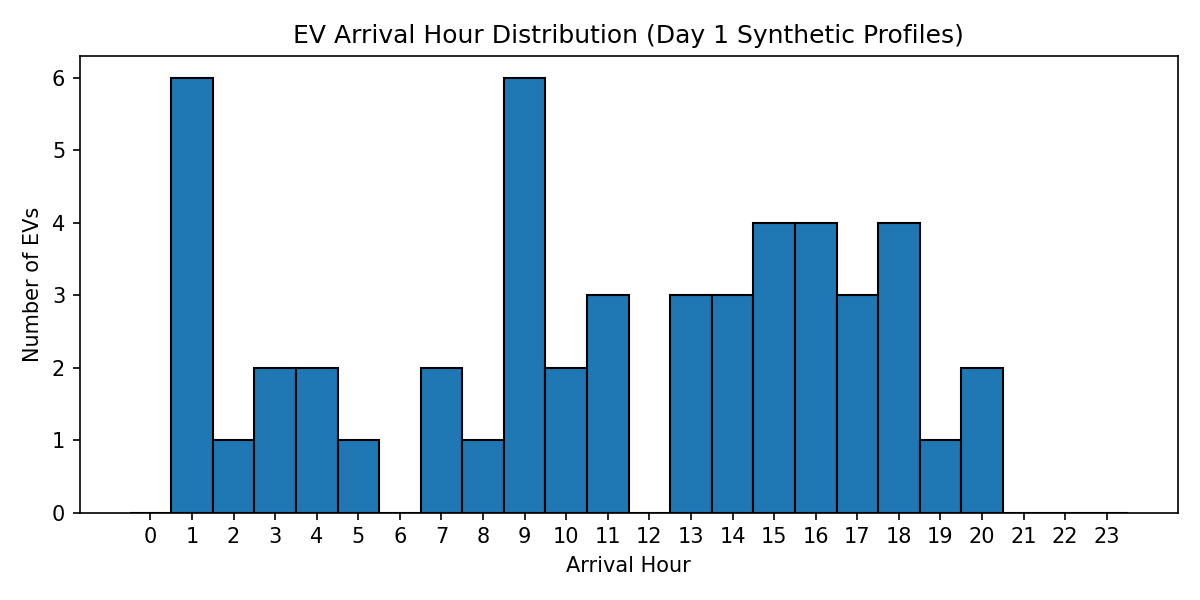
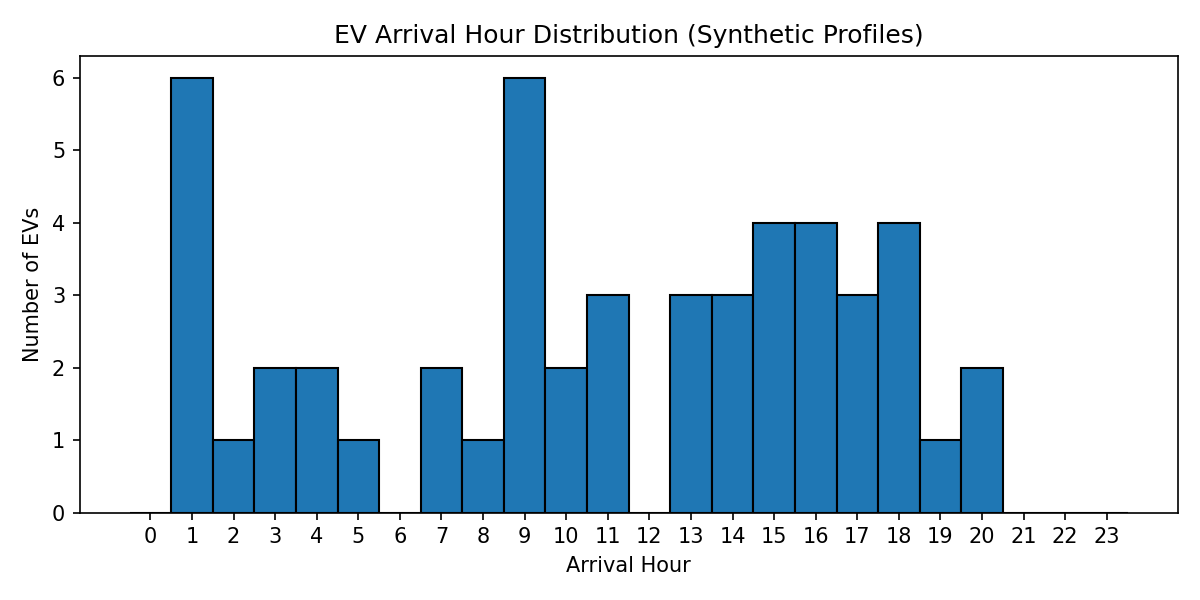
Day 2: simulate uncontrolled EV charging and fleet load

Changed region(s): [[0.2467, 0.03, 0.8017, 0.09]]

diff --git a/run.py b/run.py
@@ -2,10 +2,12 @@ from pathlib import Path
 
 import matplotlib.pyplot as plt
 
+from src.charging_simulator import simulate_uncontrolled_charging
+from src.metrics import calculate_fleet_metrics
 from src.profile_generator import generate_ev_profiles, validate_profiles
 
 
-def save_day1_plots(df, figures_dir: Path) -> None:
+def save_day1_profile_plots(df, figures_dir: Path) -> None:
     figures_dir.mkdir(parents=True, exist_ok=True)
 
     # Arrival hour histogram
@@ -14,7 +16,7 @@ def save_day1_plots(df, figures_dir: Path) -> None:
     plt.xticks(range(0, 24))
     plt.xlabel("Arrival Hour")
     plt.ylabel("Number of EVs")
-    plt.title("EV Arrival Hour Distribution (Day 1 Synthetic Profiles)")
+    plt.title("EV Arrival Hour Distribution (Synthetic Profiles)")
     plt.tight_layout()
     plt.savefig(figures_dir / "arrival_hour_histogram.png", dpi=150)
     plt.close()
@@ -24,9 +26,22 @@ def save_day1_plots(df, figures_dir: Path) -> None:
     plt.hist(df["energy_needed_kwh"], bins=10, edgecolor="black")
     plt.xlabel("Energy Needed (kWh)")
     plt.ylabel("Number of EVs")
-    plt.title("Energy Needed Distribution (Day 1 Synthetic Profiles)")
+    plt.title("Energy Needed Distribution (Synthetic Profiles)")
     plt.tight_layout()
     plt.savefig(figures_dir / "energy_needed_histogram.png", dpi=150)
+    plt.close()
+
+
+def save_uncontrolled_load_plot(fleet_load_df, figures_dir: Path) -> None:
+    plt.figure(figsize=(9, 4.5))
+    plt.plot(fleet_load_df["hour"], fleet_load_df["fleet_load_kw"], marker="o")
+    plt.xticks(range(0, 24))
+    plt.xlabel("Hour of Day")
+    plt.ylabel("Fleet Charging Load (kW)")
+    plt.title("Uncontrolled EV Charging - Aggregate Fleet Load")
+    plt.grid(True, alpha=0.3)
+    plt.tight_layout()
+    plt.savefig(figures_dir / "aggregate_load_uncontrolled.png", dpi=150)
     plt.close()
 
 
@@ -34,23 +49,54 @@ def main() -> None:
     output_dir = Path("results")
     figures_dir = output_dir / "figures"
     output_dir.mkdir(parents=True, exist_ok=True)
+    figures_dir.mkdir(parents=True, exist_ok=True)
 
-    df = generate_ev_profiles(n_evs=50, seed=42)
-    validate_profiles(df)
+    # Day 1 profiles
+    profiles_df = generate_ev_profiles(n_evs=50, seed=42)
+    validate_profiles(profiles_df)
 
-    output_path = output_dir / "ev_profiles_day1.csv"
-    df.to_csv(output_path, index=False)
+    profiles_path = output_dir / "ev_profiles_day1.csv"
+    profiles_df.to_csv(profiles_path, index=False)
 
-    save_day1_plots(df, figures_dir)
+    # Save Day 1 distributions
+    save_day1_profile_plots(profiles_df, figures_dir)
 
-    print("Generated EV profiles successfully.")
-    print(f"Saved CSV to: {output_path}")
-    print(f"Saved figures to: {figures_dir}")
+    # Day 2 simulation: uncontrolled charging
+    fleet_load_df, ev_results_df = simulate_uncontrolled_charging(
+        profiles_df=profiles_df,
+        charging_power_kw=7.0,
+    )
+
+    # Save outputs
+    fleet_load_path = output_dir / "fleet_load_uncontrolled.csv"
+    ev_results_path = output_dir / "ev_results_uncontrolled.csv"
+    fleet_load_df.to_csv(fleet_load_path, index=False)
+    ev_results_df.to_csv(ev_results_path, index=False)
+
+    # Save plot
+    save_uncontrolled_load_plot(fleet_load_df, figures_dir)
+
+    # Metrics
+    metrics = calculate_fleet_metrics(fleet_load_df, ev_results_df)
+
+    print("=== Day 2: Uncontrolled Charging Simulation ===")
+    print(f"Profiles saved: {profiles_path}")
+    print(f"Fleet load saved: {fleet_load_path}")
+    print(f"EV results saved: {ev_results_path}")
+    print(f"Figures saved in: {figures_dir}")
     print()
-    print(df.head(10).to_string(index=False))
+
+    print("Fleet load (first 10 rows):")
+    print(fleet_load_df.head(10).to_string(index=False))
     print()
-    print("Quick summary:")
-    print(df.describe())
+
+    print("Per-EV results (first 10 rows):")
+    print(ev_results_df.head(10).to_string(index=False))
+    print()
+
+    print("Metrics:")
+    for k, v in metrics.items():
+        print(f" - {k}: {v}")
 
 
 if __name__ == "__main__":

diff --git a/src/charging_simulator.py b/src/charging_simulator.py
@@ -1,0 +1,76 @@
+from __future__ import annotations
+
+from typing import Tuple
+
+import numpy as np
+import pandas as pd
+
+
+def simulate_uncontrolled_charging(
+    profiles_df: pd.DataFrame,
+    charging_power_kw: float = 7.0,
+) -> Tuple[pd.DataFrame, pd.DataFrame]:
+    """
+    Simulate uncontrolled charging for a fleet over a single day (24 hourly slots).
+
+    Assumptions:
+    - Charging starts immediately at arrival_hour
+    - Constant charging power (kW)
+    - Hourly resolution
+    - Charging stops when energy_needed_kwh is met or at departure_hour
+    - departure_hour is treated as the last available hour boundary (not inclusive)
+      Example: arrival=10, departure=13 -> charging can occur in hours 10,11,12
+    Returns:
+    - fleet_load_df: hourly aggregate fleet load
+    - ev_results_df: per-EV charging results
+    """
+    n_hours = 24
+    hourly_load_kw = np.zeros(n_hours, dtype=float)
+
+    ev_results = []
+
+    for _, row in profiles_df.iterrows():
+        ev_id = int(row["ev_id"])
+        arrival = int(row["arrival_hour"])
+        departure = int(row["departure_hour"])
+        energy_needed = float(row["energy_needed_kwh"])
+
+        remaining_energy = energy_needed
+        energy_delivered = 0.0
+
+        # For hourly resolution: each hour can deliver up to charging_power_kw * 1h = charging_power_kw kWh
+        for hour in range(arrival, departure):
+            if remaining_energy <= 1e-9:
+                break
+
+            energy_this_hour = min(charging_power_kw, remaining_energy)  # kWh in 1 hour
+            power_this_hour = energy_this_hour  # because 1-hour timestep, kWh == average kW over that hour
+
+            hourly_load_kw[hour] += power_this_hour
+            remaining_energy -= energy_this_hour
+            energy_delivered += energy_this_hour
+
+        completed = energy_delivered >= energy_needed - 1e-6
+
+        ev_results.append(
+            {
+                "ev_id": ev_id,
+                "arrival_hour": arrival,
+                "departure_hour": departure,
+                "energy_needed_kwh": round(energy_needed, 3),
+                "energy_delivered_kwh": round(energy_delivered, 3),
+                "energy_shortfall_kwh": round(max(0.0, energy_needed - energy_delivered), 3),
+                "completed": completed,
+            }
+        )
+
+    fleet_load_df = pd.DataFrame(
+        {
+            "hour": np.arange(n_hours),
+            "fleet_load_kw": hourly_load_kw.round(3),
+        }
+    )
+
+    ev_results_df = pd.DataFrame(ev_results)
+
+    return fleet_load_df, ev_results_df

diff --git a/src/metrics.py b/src/metrics.py
@@ -1,0 +1,22 @@
+import pandas as pd
+
+
+def calculate_fleet_metrics(
+    fleet_load_df: pd.DataFrame,
+    ev_results_df: pd.DataFrame,
+) -> dict:
+    """
+    Calculate core metrics for the charging simulation.
+    """
+    peak_load_kw = float(fleet_load_df["fleet_load_kw"].max())
+    total_energy_delivered_kwh = float(ev_results_df["energy_delivered_kwh"].sum())
+    total_energy_needed_kwh = float(ev_results_df["energy_needed_kwh"].sum())
+
+    completion_rate = float(ev_results_df["completed"].mean()) if len(ev_results_df) > 0 else 0.0
+
+    return {
+        "peak_load_kw": round(peak_load_kw, 3),
+        "total_energy_delivered_kwh": round(total_energy_delivered_kwh, 3),
+        "total_energy_needed_kwh": round(total_energy_needed_kwh, 3),
+        "completion_rate_pct": round(completion_rate * 100, 2),
+    }
